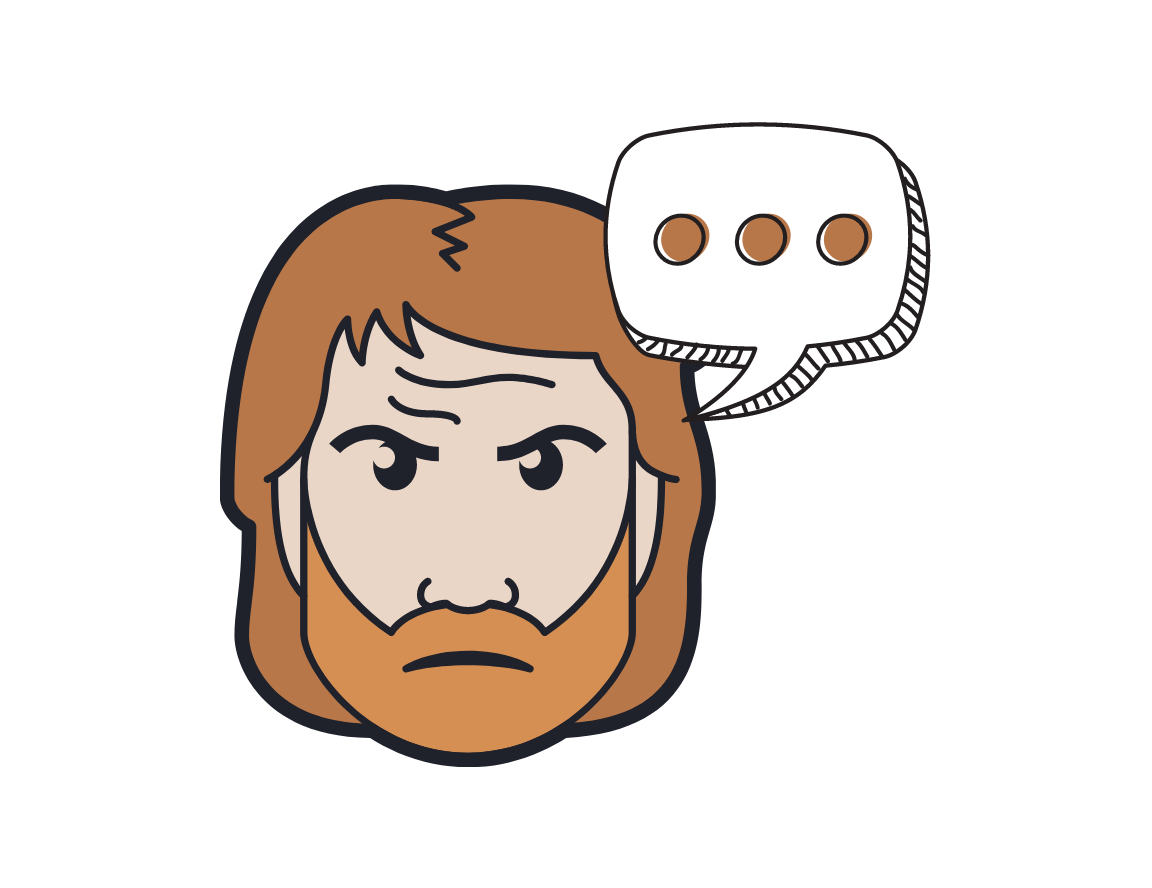
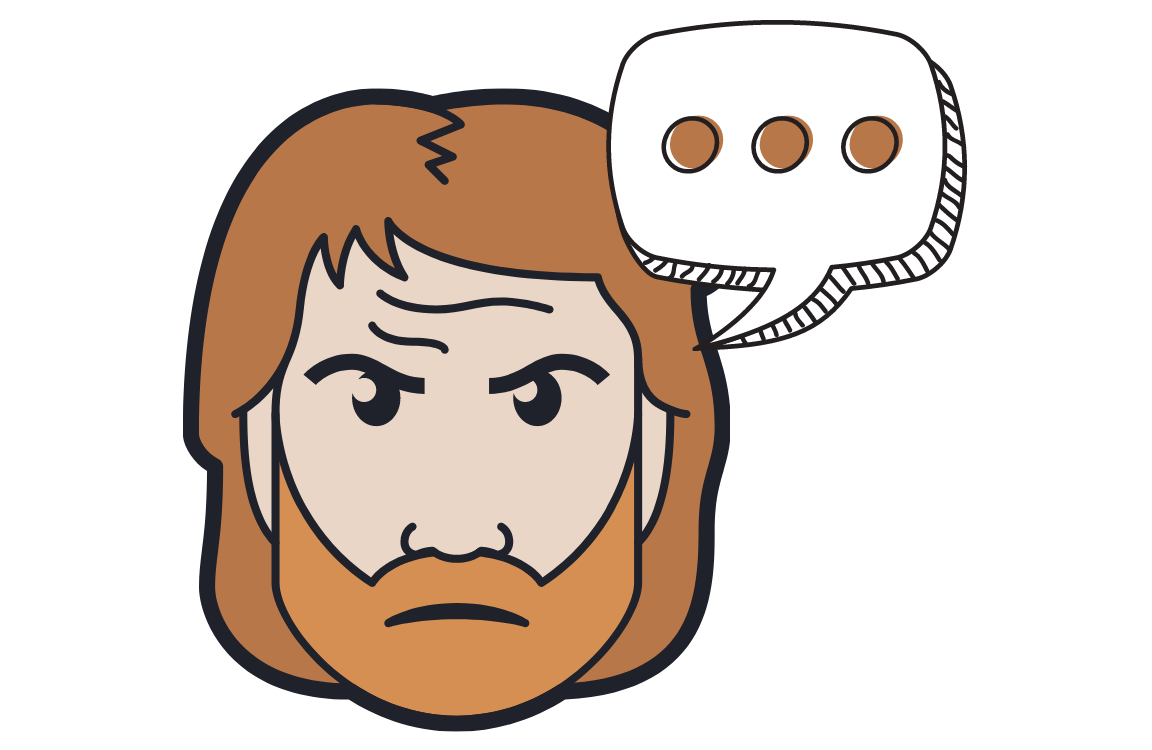
Updated CSS.

Changed region(s): [[0.1562, 0.0613, 0.8438, 0.9813], [0.6562, 0.0, 0.8125, 0.092], [0.5625, 0.0307, 0.6562, 0.0613]]

diff --git a/styles/styles.css b/styles/styles.css
@@ -6,32 +6,18 @@
     font-size: 16px;
     font-family: 'Raleway', sans-serif;
     font-family: 'Roboto Mono', monospace;
-    background: #ffffff;
+    background: black;
     margin: 0;
     padding: 20px;
-    color: #ffffff;
+    color: white;
   }
   
   main, header, section, footer {
     margin: 0;
     padding: 10px;
     border: none;
-    color: #ffffff;
   }
   
-  main {
-    background: #ffffff;
-  }
-  
-  ul, nav {
-    list-style: none;
-  }
-  
-  a {
-    text-decoration: none;
-    cursor: pointer;
-    color: inherit;
-  }
   
   h1 {
     font-family: 'Roboto Mono', monospace;
@@ -39,7 +25,7 @@
     text-align: center;
     margin: 0;
     padding: 20px 20px;
-    color: #000000;
+    color:#ffffff;
   }
   
   h2 {
@@ -49,7 +35,7 @@
     margin: 0;
     padding: 30px 30px;
     text-decoration: none;
-    color: #000000;
+    color: #ffffff;
   }
   
   .wrapper {
@@ -61,57 +47,51 @@
     justify-content: space-around;
     display: flex;
     text-align: center;
-    color: #000000;
+  }
+
+  .button {
+    margin: 20px;
+    background-color: #b77748;
+    border: none;
+    color: #ffffff;
+    padding: 15px 32px;
+    text-align: center;
+    text-decoration: none;
+    font-size: 16px;
+    border-radius: 12px;
+  }
+
+  select {
+    background-color: #b77748;
+    border: none;
+    color: #ffffff;
+    padding: 15px 32px;
+    text-align: center;
+    text-decoration: none;
+    font-size: 16px;
+    border-radius: 12px;
   }
   
   .capitalize {
     text-transform: capitalize;
   }
 
-  .header {
-    background: #ffffff;
-    color: #000000;
-    font-family: 'Raleway', sans-serif;
+  .image-wrapper {
+    width: 100%;
   }
-  
-  .background {
-    background-image: 'images/Chuck_Image_Updated.png';
-    max-width: 100%;
-    padding: 0;
-    flex: 1;
-    display: flex;
-    align-items: center;
-    justify-content: center;
-    z-index: 10;
-    background-size: cover;
-    background-position: center;
-    background-repeat: no-repeat;
-  }
-  
-  .content {
-    background: #f0efec;
-    color: #000000;
-    font-family: 'Raleway', sans-serif;
+
+  .image-wrapper img {
+    height: auto;
+    width: 100%;
+    padding: 0px;
   }
   
   .sub-content-upper {
     flex: 1;
     border: none;
-    background: #fdf0ec;
-    border-top: 1rem solid #ffffff;
-    border-bottom: 1rem solid #ffffff;
-    color: #000000;
-    font-family: 'Raleway', sans-serif;
-  }
-  
-  .sub-content-lower {
-    flex: 1;
-    border: none;
-    background: #98bec8;
-    border-top: 1rem solid #ffffff;
-    border-bottom: 1rem solid #ffffff;
-    color: #000000;
-    font-family: 'Raleway', sans-serif;
+    color: #ffffff;
+    font-family: 'Roboto Mono', monospace;
+    font-size: 20px;
   }
   
   @media screen and (min-width: 640px){
@@ -121,9 +101,8 @@
   }
   
   .footer { 
-    background: #c1605c;
-    border-top: 1rem solid #ffffff;
-    border-bottom: 1rem solid #ffffff;
     color: #ffffff;
     font-family: 'Raleway', sans-serif;
+    background-color: #1f212b;
+    border-radius: 12px;
   }

diff --git a/index.html b/index.html
@@ -17,52 +17,32 @@
         <h1>CHUCK NORRIS QUOTES</h1>
     </header>
 
-    <!-- Content -->
-    <div class="flex-container">
-        <section class="sub-content-upper">
-            <h2>Content.</h2>
-            <p id ="chuckSays"></p>
-            <button id="refreshQuote">Click Me</button>
-            <form id="getChuckQuotes">
-                <label>
-                Choose a Category:
-                 <!-- <input type="text" id="categoryInput" value="" placeholder="categoryChoice" required/> -->
-                <select id="categoryInput" class="capitalize"></select>
-
-                    <!-- <option value="dev">Dev</option>
-                    <option value="animal">Animal</option>
-                    <option value="career">Career</option>
-                    <option value="celebrity">Celebrity</option>
-                    <option value="fashion">Fashion</option>
-                    <option value="food">Food</option>
-                    <option value="history">History</option>
-                    <option value="money">Money</option>
-                    <option value="movie">Movie</option>
-                    <option value="music">Music</option>
-                    <option value="science">Science</option>
-                    <option value="sport">Sport</option>
-                    <option value="travel">Travel</option>
-                </select> -->
-                
-                </label>
-                <button type="submit" id="submitForm">Get a Quote</button>
-            </form>
-        </section>
-    </div>
-
     <!-- Hero -->
-    <section class="hero">
-        <div class="background"> 
-            <img src="images/Chuck_Image_Updated.png">
+    <section> 
+        <div class="image-wrapper">
+            <img src="images/Chuck_Image_Updated.png"/>
         </div>
     </section>
 
+    <!-- Content -->
+    <div class="flex-container">
+        <section class="sub-content-upper">
+            <p id ="chuckSays"></p>
+            <button class="button" id="refreshQuote">Click Me</button>
+        </section>
+    </div>
+
     <!-- Footer -->
     <footer class="footer">
-        <p>
-            Lorem ipsum dolor sit amet, consectetur adipiscing elit. Sumenda potius quam expetenda. Nihil opus est exemplis hoc facere longius.
-        </p>
+        <p>Pick a New Category: </p>
+        <form id="getChuckQuotes">
+            <label>
+            <select id="categoryInput" class="capitalize"></select>
+            </label>
+            <button class="button" type="submit" id="submitForm">Get a Quote</button>
+        </form>
     </footer>
+    
     </main>     
 
     <!-- JS Scripts -->
